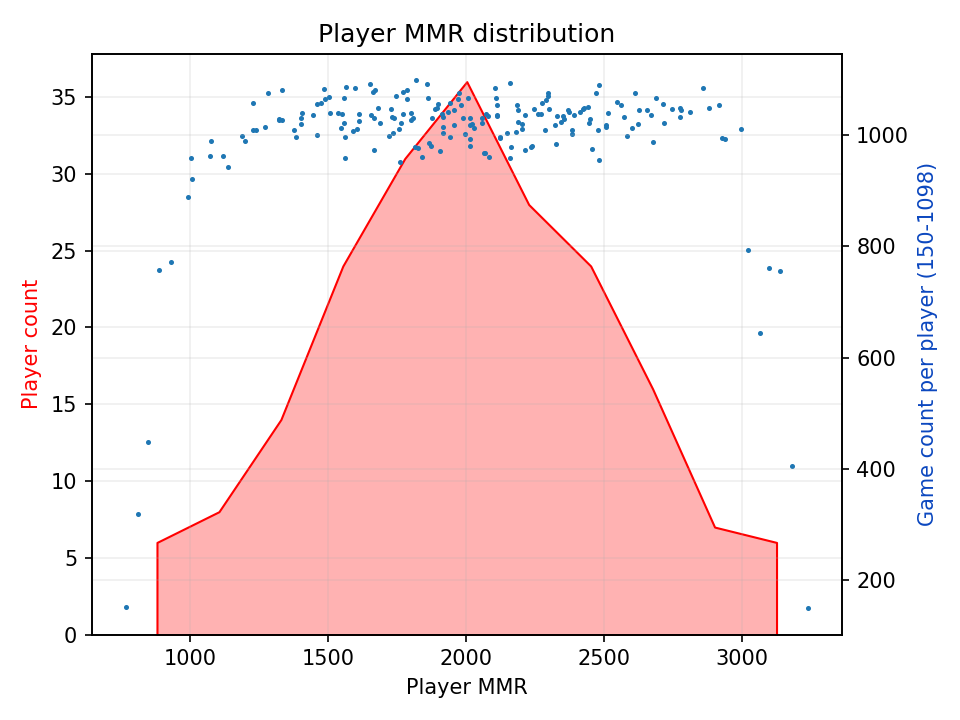
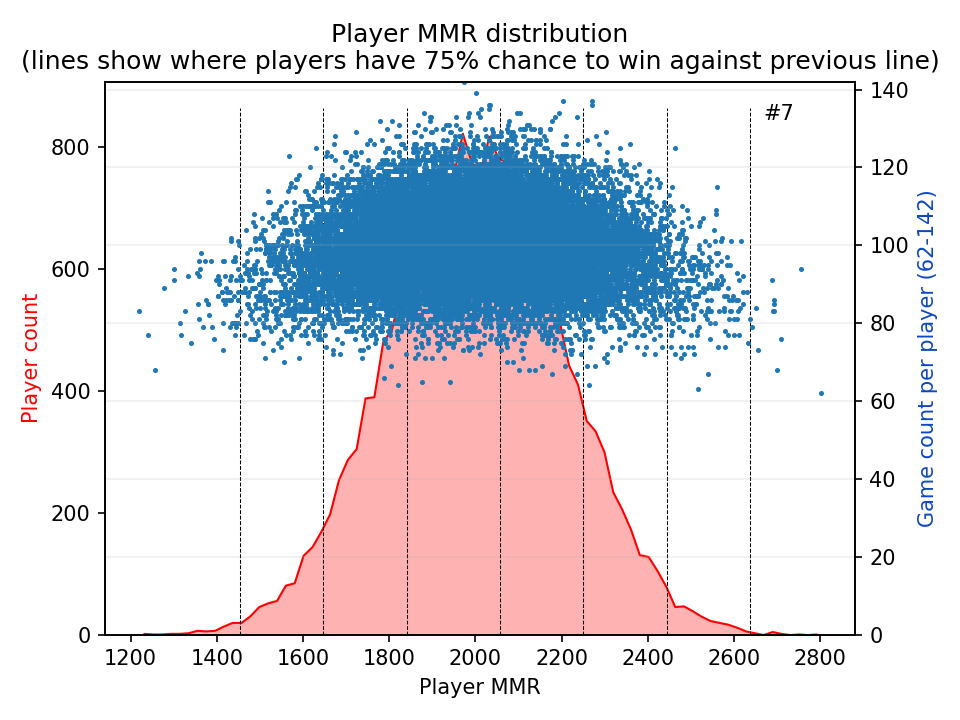
another day

Changed region(s): [[0.0, 0.0306, 0.9688, 0.9472], [0.2812, 0.8861, 0.7188, 0.9778], [0.7812, 0.1528, 0.8125, 0.1833]]

diff --git a/analyse.py b/analyse.py
@@ -1,5 +1,6 @@
 import json
 import matplotlib.pyplot as plt
+from numpy import right_shift
 import seaborn as sns
 import statistics
 import math
@@ -11,34 +12,84 @@ with open("data.json", 'r') as f:
 plt.rcParams['figure.dpi'] = 150
 
 
+def chance_skill(diff):
+    """ Returns the chance for a player to win based on skill difference"""
+    return 1 / (1 + math.exp(-10 * (diff)))
+
+
 ## PLAYER HISTORY
 def plot_mmr_history(DATAVALUES=6):
     unique_opponents = [len(set(i["opponent_history"])) for i in data]
-    extremes = [p for p in sorted(data, key=lambda x: x["skill"])]
-    extremes = [extremes[0], extremes[-1]]
-    players = data[:DATAVALUES - 2] + extremes
-
-    fig, ax = plt.subplots()
-
-    ax.plot(range(len(extremes[1]['mmr_history'])),
-            extremes[1]['mmr_history'],
-            label=f"Player skill: {extremes[1]['skill']}")
-
-    ax.set_ylabel("MMR", color="#0b47bf")
-    ax.set_xlabel("Games")
-
-    chances = [
-        1 / (1 + math.exp(-10 * (extremes[1]['skill'] - opponent)))
-        for opponent in extremes[1]['opponent_history']
+    extremes = [
+        p for p in sorted(data, key=lambda x: x["skill"], reverse=True)
     ]
-    ax2 = ax.twinx()
-    ax2.plot(chances, color='red', linewidth=0.5)
-    ax2.set_ylim(0, 1.05)
-    ax2.set_ylabel("Chances against opponents", color="red")
+    players = data[:DATAVALUES - 2] + [extremes[0], extremes[-1]]
+    fig, ax = plt.subplots(5, 1)
 
-    plt.title(f"The best player ({extremes[1]['skill']})")
-    ax.grid(alpha=0.2)
-    plt.grid(alpha=0.2)
+    for i in range(3):
+        ax[0].plot(range(len(extremes[i]['mmr_history'])),
+                   extremes[i]['mmr_history'],
+                   label=f"Player skill: {extremes[i]['skill']}")
+        chances = [
+            chance_skill(extremes[i]['skill'] - opponent)
+            for opponent in extremes[i]['opponent_history']
+        ]
+
+        ax[1].scatter(range(len(chances)), chances, s=2)
+        if i == 0:
+            ax[2].plot(chances, label="True chances")
+
+    ax[0].set_ylabel("MMR")
+    ax[0].set_xlabel("Games")
+    ax[0].legend()
+    ax[0].set_title(f"Top 3 players")
+    ax[0].grid(alpha=0.2)
+    ax[1].set_ylabel("Chances against opponents")
+    ax[1].set_ylim(0, 1.05)
+    ax[1].grid(alpha=0.2)
+    ax[1].set_xlabel("Games")
+
+    # Plot the best player
+    p = extremes[0]
+    ax[2].plot(p["predicted_chances"], label="Predicted chances")
+    ax[2].legend()
+    ax[2].grid(alpha=0.2)
+    ax[2].set_title(
+        f'Best player ({chance_skill(extremes[0]["skill"]-extremes[1]["skill"]):2f} chance against second)'
+    )
+    ax[2].set_xlabel("Games (Best player)")
+    ax[2].set_ylabel("Changes against the oppponent")
+    ax[2].set_ylim(-0.02, 1.02)
+
+    # the worst player
+    p = extremes[-1]
+    chances = [chance_skill(p['skill'] - opp) for opp in p['opponent_history']]
+    ax[4].plot(chances, label="True chances")
+    ax[4].plot(p["predicted_chances"], label="Predicted chances")
+    ax[4].legend()
+    ax[4].grid(alpha=0.2)
+    ax[4].set_title(
+        f'Worst player ({chance_skill(extremes[-1]["skill"]-extremes[-2]["skill"]):.2f} chance against second)'
+    )
+    ax[4].set_xlabel("Games")
+    ax[4].set_ylabel("Changes against the oppponent")
+    ax[4].set_ylim(-0.02, 1.02)
+
+    # average player
+    p = extremes[int(len(extremes) / 2)]
+    chances = [chance_skill(p['skill'] - opp) for opp in p['opponent_history']]
+    ax[3].plot(chances, label="True chances")
+    ax[3].plot(p["predicted_chances"], label="Predicted chances")
+    ax[3].legend()
+    ax[3].grid(alpha=0.2)
+    ax[3].set_title("Average player")
+    ax[3].set_xlabel("Games")
+    ax[3].set_ylabel("Changes against the oppponent")
+    ax[3].set_ylim(top=1)
+    ax[3].set_ylim(-0.02, 1.02)
+
+    fig.set_figheight(16)
+    fig.tight_layout(h_pad=2.1)
     plt.savefig("Player_extremes.png")
 
     plt.figure().clear()
@@ -66,13 +117,14 @@ def plot_mmr_history(DATAVALUES=6):
     ax[1].set_ylabel("Opponent skill")
     ax[1].set_xlabel("Games")
     ax[1].set_xlim(0, ax[1].get_xlim()[1] * 1.1)
-    ax[1].set_ylim(0, 2)
+    ax[1].set_ylim(-0.15, 2)
     ax[0].set_title(
         "How player MMR and opponents change\n"
         f"Average unique opponents per player: {statistics.mean(unique_opponents)}"
     )
     ax[0].grid(alpha=0.2)
     ax[1].grid(alpha=0.2)
+    fig.set_figheight(8)
     plt.savefig("Player_history.png")
 
 
@@ -97,21 +149,58 @@ def plot_other():
     ## Player skill dist
     plt.figure().clear()
     sns.histplot(skills, element='poly', fill=True, alpha=0.3)
-    plt.title("Player skill distribution")
+    plt.title(
+        "Player skill distribution\n(lines show where players have 75% chance to win against previous line)"
+    )
     plt.xlabel("Player skill")
     plt.ylabel("Player count")
+    M = plt.ylim()[1]
+
+    # Plotting lines where a player has 75% chance to win against previous line
+    # More lines means more diverse population of skills
+    lines = 0
+    previous_skill = None
+    for skill in skills:
+        if previous_skill is None:
+            previous_skill = skill
+            continue
+
+        chance = chance_skill(skill - previous_skill)
+        if chance > 0.75:
+            previous_skill = skill
+            plt.plot([skill, skill], [0, M], "k--", linewidth=0.5)
+            lines += 1
+
+    plt.text(plt.xlim()[1] * 0.92, plt.ylim()[1] * 0.93, f"#{lines}")
     plt.grid(alpha=0.2)
     plt.savefig("Skill_dist.png")
 
-    # Player MMR dist
+    ## Player MMR dist
     plt.figure().clear()
     fig, ax1 = plt.subplots()
 
     sns.histplot(mmrs, element='poly', color='red', fill=True, alpha=0.3)
-    plt.title("Player MMR distribution")
+    plt.title(
+        "Player MMR distribution\n(lines show where players have 75% chance to win against previous line)"
+    )
     plt.xlabel("Player MMR")
     ax1.set_ylabel("Player count", color='red')
-    plt.grid(alpha=0.2)
+    M = plt.ylim()[1]
+
+    lines = 0
+    previous_mmr = None
+    for mmr in mmrs:
+        if previous_mmr is None:
+            previous_mmr = mmr
+            continue
+
+        chance = 1 / (1 + math.exp((previous_mmr - mmr) / 173.718))
+        if chance > 0.75:
+            previous_mmr = mmr
+            plt.plot([mmr, mmr], [0, M], "k--", linewidth=0.5)
+            lines += 1
+
+    plt.text(plt.xlim()[1] * 0.93, plt.ylim()[1] * 0.93, f"#{lines}")
 
     ax2 = ax1.twinx()
     ndata = [i for i in sorted(data, key=lambda x: x["mmr"])]
@@ -121,11 +210,12 @@ def plot_other():
     ax2.set_ylabel(
         f"Game count per player ({min(histories)}-{max(histories)})",
         color='#0b47bf')
+    ax2.set_ylim(0, max(histories))
     plt.tight_layout()
     plt.grid(alpha=0.2)
     plt.savefig("MMR_dist.png")
 
-    # Games played
+    ## Games played
     plt.figure().clear()
     games_played = [len(i["opponent_history"]) for i in data]
     sns.histplot(games_played, element='poly')

diff --git a/main.cpp b/main.cpp
@@ -21,8 +21,10 @@ public:
     double mmr = 2000;
     // Vector of opponent skills. It's used to define the matchmaker accuracy.
     std::vector<double> opponent_history;
-    //
+    // MMR history
     std::vector<double> mmr_history;
+    // Chances predicted by the matchmaker
+    std::vector<double> predicted_chances;
     // Define player and assign him his skill value
     Player(double pskill)
     {
@@ -90,7 +92,7 @@ public:
     // More complicated version would take into account search time, latency, etc.
     bool good_match(Player &p1, Player &p2)
     {
-        return std::abs(p1.mmr - p2.mmr) < 35.0; // 35 MMR → 55% ; 70 → 60% ; 120 → 66%; 191 → 75%
+        return std::abs(p1.mmr - p2.mmr) < 70.0; // 35 MMR → 55% ; 70 → 60% ; 120 → 66%; 191 → 75%
     }
 
     // Updates MMR for
@@ -104,6 +106,9 @@ public:
         // Chances of winning for the winner and loser. /400 is changed to 173. to use exp instead of pow(10,)
         double Ew = 1 / (1 + exp((loser.mmr - winner.mmr) / 173.718));
         double El = 1 - Ew;
+
+        winner.predicted_chances.push_back(Ew);
+        loser.predicted_chances.push_back(El);
 
         // printf("Winner (%f) | Loser (%f) | Expected: %f Actual: %f | +%f \n", winner.mmr, loser.mmr, Ew, actual_chances, K * El);
         winner.mmr += K * El;
@@ -238,7 +243,7 @@ void save_player_data(const std::vector<Player> &players)
     for (const Player &p : players)
     {
         s += str("{\"skill\": ", p.skill, ", \"mmr\": ", p.mmr, ", \"opponent_history\": ", str(p.opponent_history));
-        s += str(", \"mmr_history\": ", str(p.mmr_history), "},\n");
+        s += str(", \"mmr_history\": ", str(p.mmr_history),", \"predicted_chances\": ", str(p.predicted_chances), "},\n");
     }
     s.erase(s.end() - 2, s.end());
     s += "\n]";
@@ -264,8 +269,8 @@ int main()
 {
     ELO_strategy strategy;
     Simulation simulation(strategy);
-    simulation.add_players(200);
-    simulation.play_games(100000);
+    simulation.add_players(20000);
+    simulation.play_games(5000000);
 
     double inaccuracy = simulation.get_inaccuracy();
     print("Inaccuracy:", inaccuracy);

diff --git a/README.md b/README.md
@@ -1,3 +1,5 @@
+For reference:
+![Screenshot](./mmr_scaling_sc2.png)
 ![Screenshot](./Skill_dist.png)
 ![Screenshot](./MMR_dist.png)
 ![Screenshot](./Player_extremes.png)
